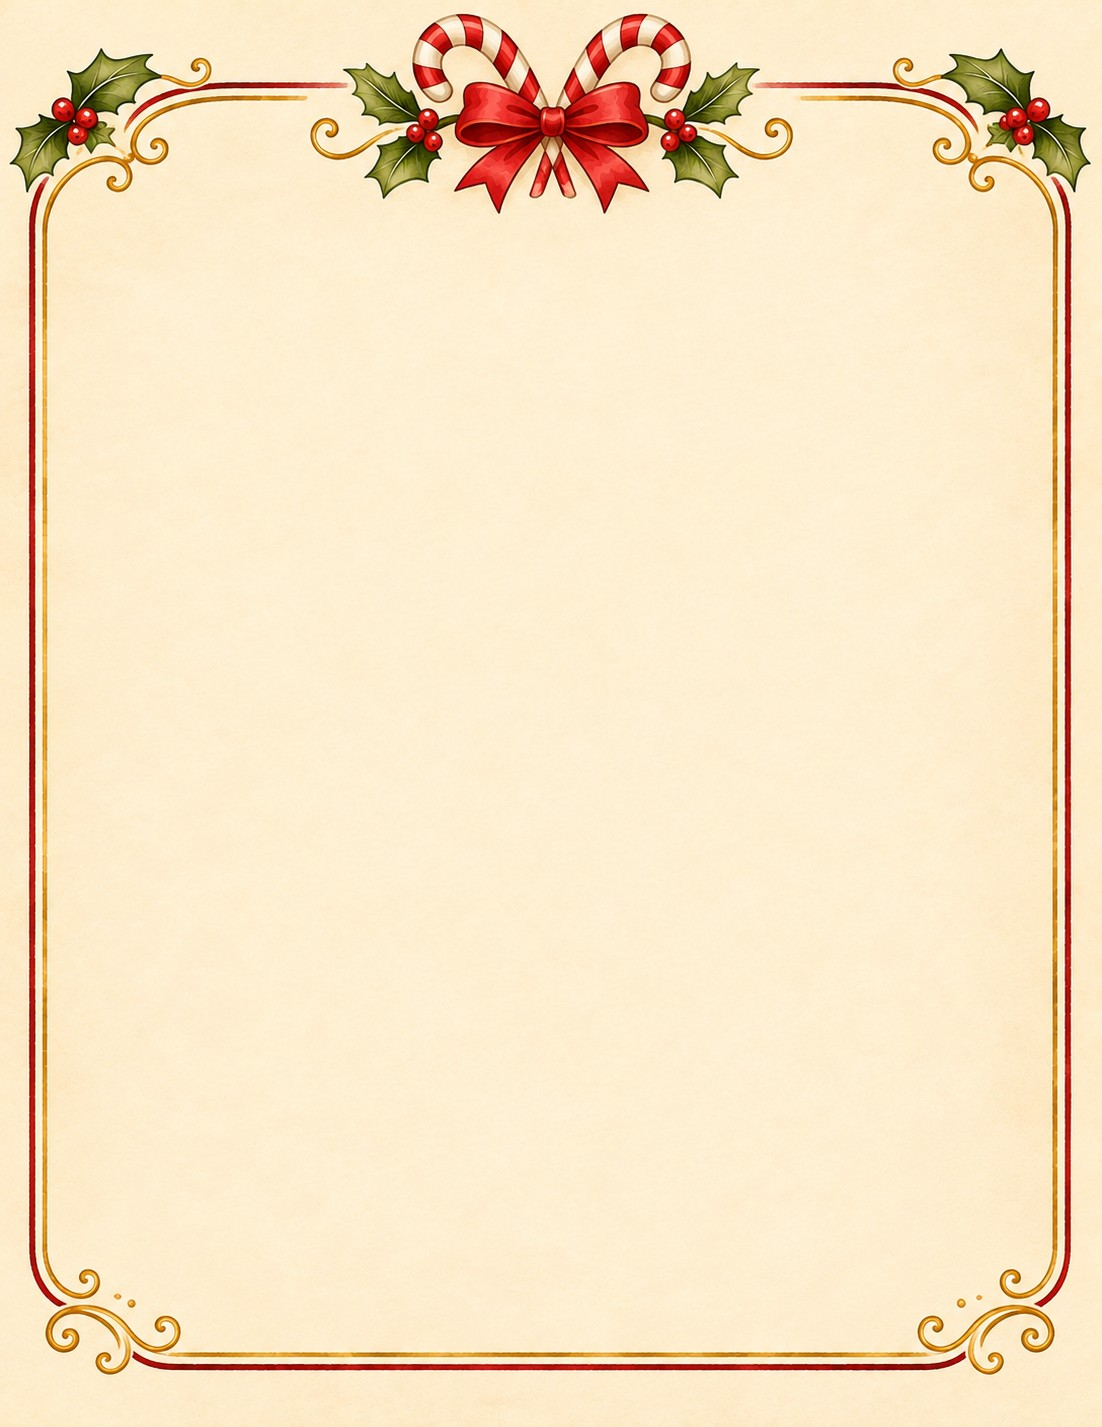
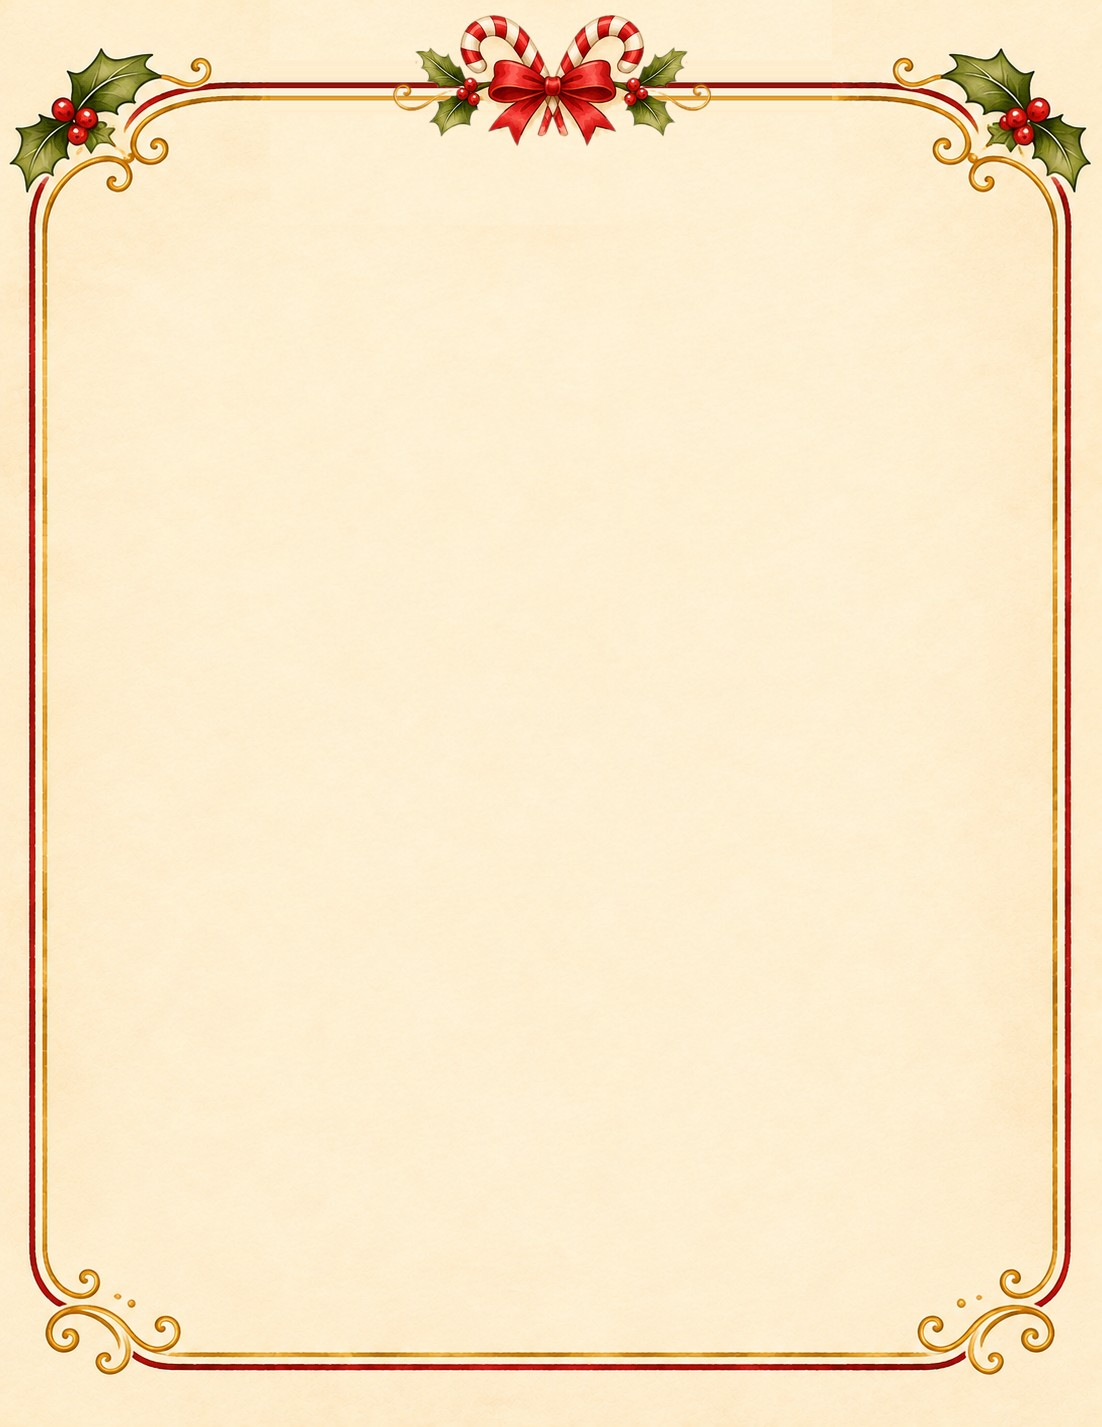
Certificate: smaller top ornament, signature + date lines, smaller sleigh

Changed region(s): [[0.2777, 0.0, 0.7405, 0.1542]]

diff --git a/index.html b/index.html
@@ -52,7 +52,7 @@ details pre{white-space:pre-wrap;font-size:12px;background:var(--blush);border-r
 .sign .sig{font-family:'Great Vibes',cursive;font-size:6cqw;line-height:1;color:#9E2A2B;display:block;margin-top:.4cqw;}
 .sign .sub{font-size:1.9cqw;color:#6b5844;font-style:italic;}
 .seal{position:absolute;right:23%;bottom:9.5%;width:10cqw;filter:drop-shadow(0 .4cqw .6cqw rgba(60,20,20,.35));}
-.cert .inner{left:12%;right:12%;top:17%;bottom:19%;align-items:center;text-align:center;}
+.cert .inner{left:12%;right:12%;top:14.5%;bottom:20%;align-items:center;text-align:center;}
 .c-small{margin-top:0;font-family:Cinzel,'Cormorant Garamond',serif;letter-spacing:.9cqw;font-size:1.9cqw;color:#2F5D46;}
 .c-title{margin-top:1.6cqw;font-family:'Great Vibes',cursive;font-size:11.5cqw;line-height:1.05;color:#9E2A2B;}
 .c-word{font-family:Cinzel,'Cormorant Garamond',serif;letter-spacing:.9cqw;font-size:3.2cqw;margin-top:.4cqw;}
@@ -60,9 +60,13 @@ details pre{white-space:pre-wrap;font-size:12px;background:var(--blush);border-r
 .c-name{font-family:'Great Vibes',cursive;font-size:12.5cqw;line-height:1.1;color:#3A2A1E;outline:none;min-width:30cqw;}
 .c-rule{width:46cqw;border-top:.2cqw solid #C9A24D;margin:.6cqw 0 1.6cqw;}
 .c-text{font-family:'Cormorant Garamond',serif;font-size:3cqw;line-height:1.4;max-width:60cqw;outline:none;}
-.c-sleigh{width:54cqw;margin-top:2.4cqw;}
+.c-sleigh{width:38cqw;margin-top:3.5cqw;}
 .c-seal{position:absolute;left:50%;top:88%;width:15.5cqw;transform:translate(-50%,-50%);filter:drop-shadow(0 .5cqw .8cqw rgba(60,20,20,.35));}
-.c-sign{position:absolute;bottom:8%;font-family:'Great Vibes',cursive;font-size:5.4cqw;color:#9E2A2B;line-height:1;}
+.c-sig{position:absolute;bottom:8.6%;width:25cqw;text-align:center;border-top:.25cqw solid #3A2A1E;padding-top:.6cqw;}
+.c-sig.l{left:11.5%;}.c-sig.r{right:11.5%;}
+.c-sig .v{font-family:'Great Vibes',cursive;font-size:5.6cqw;color:#9E2A2B;line-height:1;position:absolute;left:0;right:0;bottom:100%;margin-bottom:.4cqw;}
+.c-sig .v.d{font-family:'Cormorant Garamond',serif;font-style:italic;font-size:2.7cqw;color:#3A2A1E;margin-bottom:.8cqw;}
+.c-sig .k{font-family:Cinzel,serif;font-size:1.5cqw;letter-spacing:.5cqw;color:#3A2A1E;}
 .hero{display:block;width:min(82%,520px);margin:0 auto 8px;}
 footer{text-align:center;font-size:12px;color:var(--light);margin-top:34px;}
 @media(max-width:600px){h1{font-size:30px;}}
@@ -140,6 +144,8 @@ footer{text-align:center;font-size:12px;color:var(--light);margin-top:34px;}
         <div class="c-text" contenteditable="true">has been very good this year, and is officially on Santa&#8217;s Nice List.</div>
         <img class="c-sleigh" src="art/sleigh.png" alt="">
       </div>
+      <div class="c-sig l"><span class="v">Santa Claus</span><span class="k">SANTA</span></div>
+      <div class="c-sig r"><span class="v d" id="certDate"></span><span class="k">DATE</span></div>
       <img class="c-seal" src="art/seal.png" alt="">
     </div>
 
@@ -217,7 +223,7 @@ function render(o){
   document.getElementById('usedList').innerHTML=used.map(u=>`<li>${esc(u)}</li>`).join('');
   document.getElementById('checkBox').classList.toggle('hidden',!used.length);
   const yr=new Date().getFullYear();
-  document.getElementById('dateLine').textContent='December 1, '+yr;
+  document.getElementById('dateLine').textContent='December 1, '+yr;document.getElementById('certDate').textContent='December 1, '+yr;
   const nm=str(o.childName||o.child_name)||((paras[0]||'').replace(/^dear\s+/i,'').replace(/[,:]\s*$/,''))||'Your Child';
   document.getElementById('certName').textContent=nm;
   const r=document.getElementById('result');r.classList.remove('hidden');
